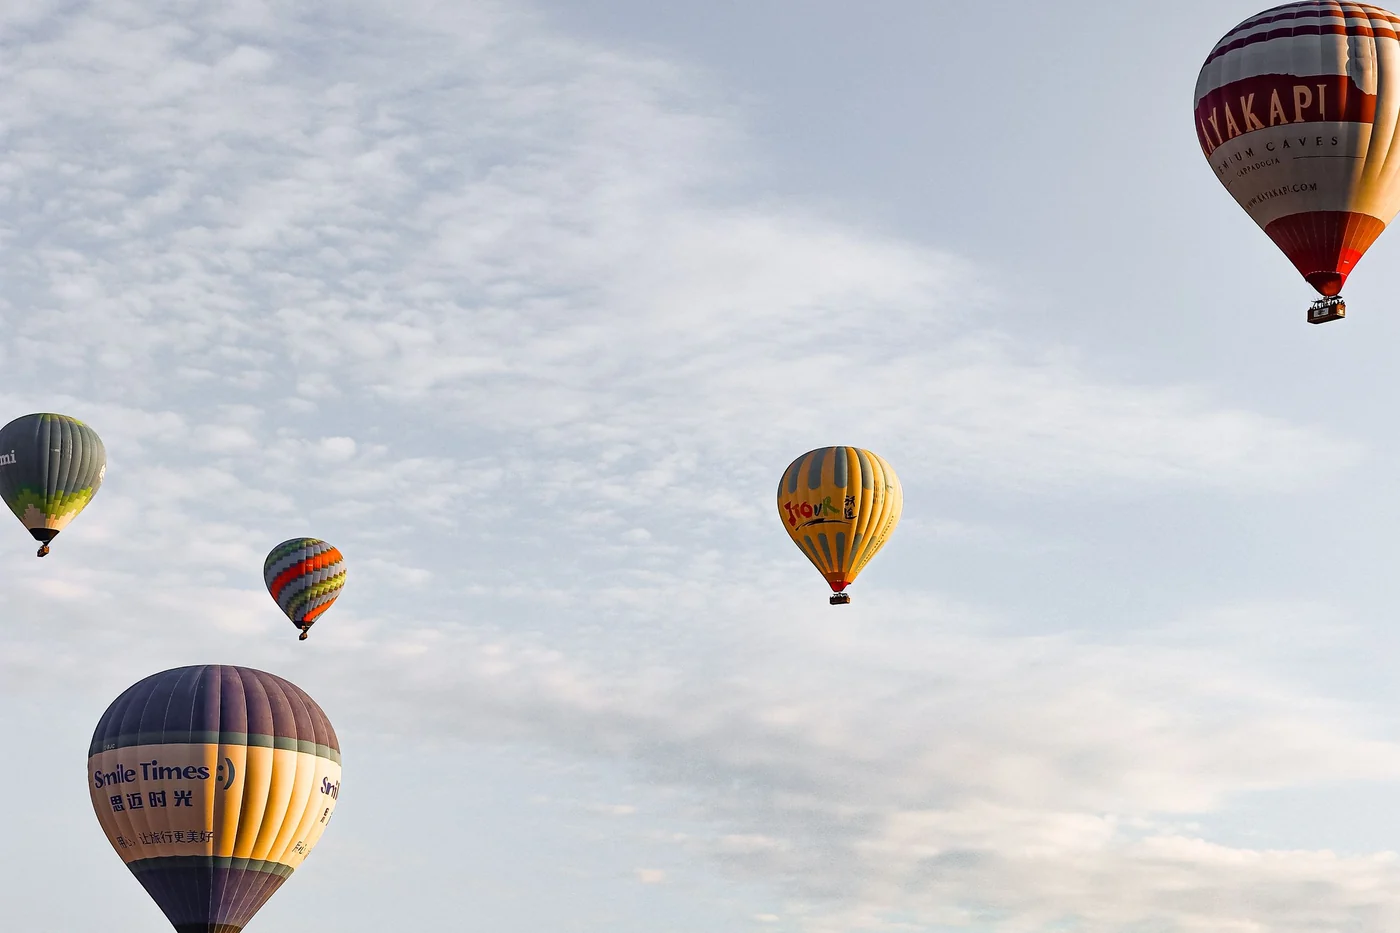
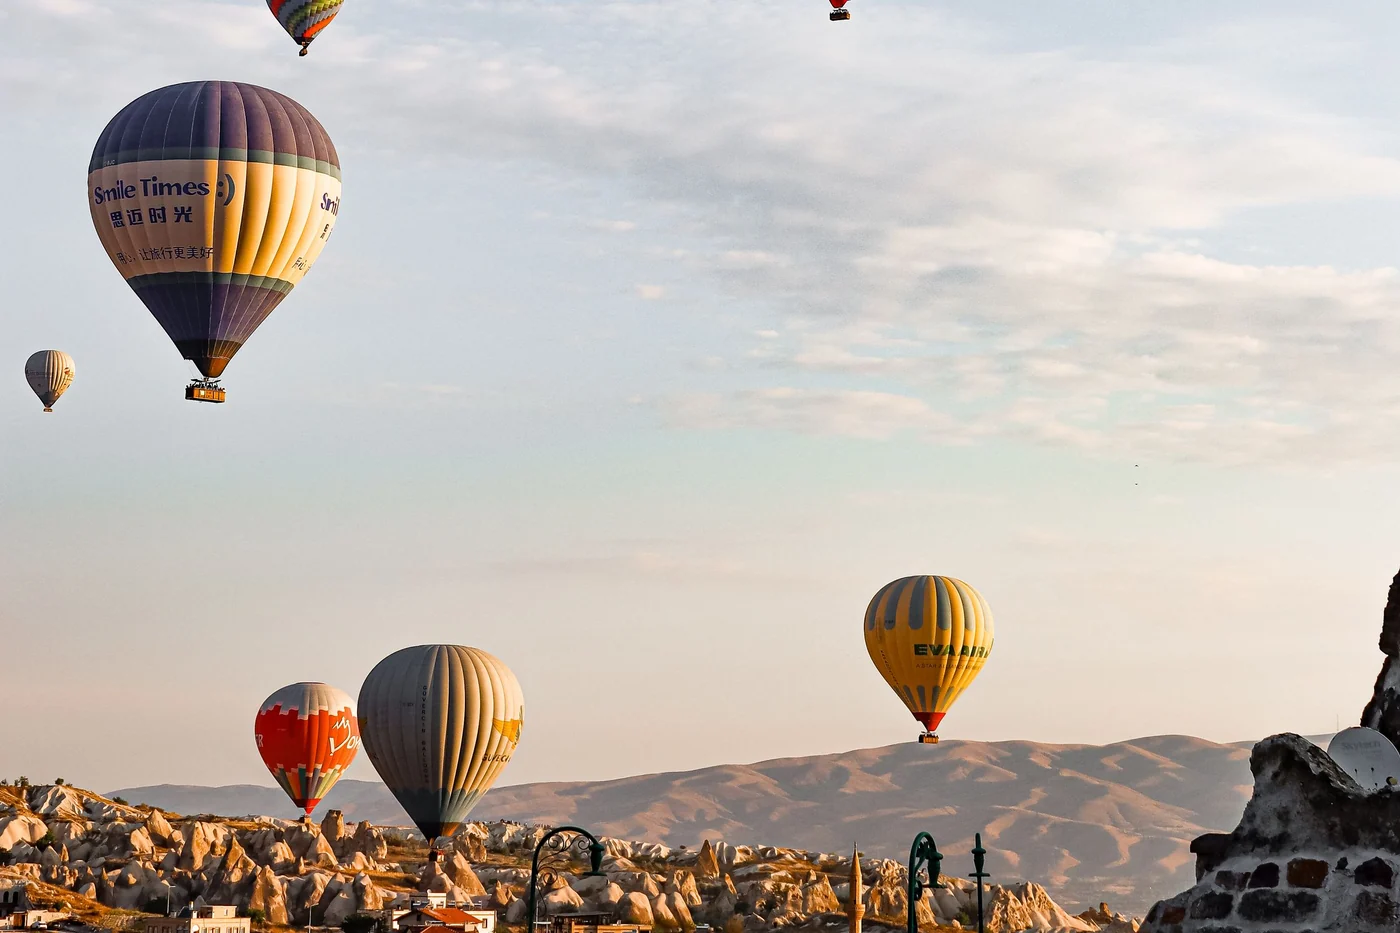
Fix three crops and two credits from the first international batch
Cappadocia kept only sky and balloons from a portrait frame, Trabzon hid Sumela
behind leaves, and Dubai had a road barrier across the skyline. All three are
re-cropped from the same Pexels photographs with a moved window, which the
installer can now do with --offset-x and --offset-y.

The Bath photographer is Jimmyk photos per the Pexels page, and the Istanbul
row now names the Sultan Ahmed Mosque it shows.

diff --git a/scripts/install-stock-image.py b/scripts/install-stock-image.py
@@ -7,6 +7,11 @@ neighbours.
 
     python scripts/install-stock-image.py 28558770 public/images/cities/saudi-arabia/jeddah.webp
     python scripts/install-stock-image.py 28558770 public/images/countries/x.webp --portrait
+    python scripts/install-stock-image.py 29021807 public/images/cities/turkey/cappadocia.webp --offset-y 1
+
+--offset-x and --offset-y move the crop window from the centre (0.5) towards an
+edge (0 or 1). Look at the crop before accepting it: a centre crop can keep a
+photograph's sky and lose its subject.
 
 It deliberately does NOT record the licence for you. That goes in
 docs/destination-image-sources-2026-09.md by hand, with the photographer and
@@ -40,12 +45,18 @@ def fetch(photo_id: str, width: int) -> Image.Image:
     with Image.open(temp) as image:
         return image.convert("RGB")
 
-def crop_to(image: Image.Image, size: tuple[int, int]) -> Image.Image:
+def crop_to(image: Image.Image, size: tuple[int, int], offset_x: float = 0.5, offset_y: float = 0.5) -> Image.Image:
+    """Cover-scale, then cut the window. 0.5 is centre, 0 is left/top, 1 is right/bottom.
+
+    Centre is right for most photographs and wrong whenever the subject sits at
+    an edge. The first Cappadocia card was a portrait of balloons with the
+    valley in its bottom strip, and a centre crop kept only the sky.
+    """
     target_w, target_h = size
     scale = max(target_w / image.width, target_h / image.height)
     resized = image.resize((round(image.width * scale), round(image.height * scale)), Image.LANCZOS)
-    left = (resized.width - target_w) // 2
-    top = (resized.height - target_h) // 2
+    left = round((resized.width - target_w) * offset_x)
+    top = round((resized.height - target_h) * offset_y)
     return resized.crop((left, top, left + target_w, top + target_h))
 
 
@@ -64,8 +75,9 @@ def save_under(image: Image.Image, out: Path, target_kb: int) -> int:
 if __name__ == "__main__":
     photo_id, destination = sys.argv[1], Path(sys.argv[2])
     size = COUNTRY if "--portrait" in sys.argv else CITY
+    flag = lambda name: float(sys.argv[sys.argv.index(name) + 1]) if name in sys.argv else 0.5
     source = fetch(photo_id, 2400)
-    result = crop_to(source, size)
+    result = crop_to(source, size, flag("--offset-x"), flag("--offset-y"))
     written = save_under(result, destination, TARGET_KB)
     print(f"pexels {photo_id} -> {destination}  {size[0]}x{size[1]}  {written} KB")
     print(f"  source page: https://www.pexels.com/photo/{photo_id}/")

diff --git a/docs/destination-image-sources-2026-09.md b/docs/destination-image-sources-2026-09.md
@@ -135,10 +135,10 @@ This batch replaces 27 generated city cards in the UAE, Turkey, the United Kingd
 | public/images/cities/turkey/bursa.webp | Musa Ortaç | [Pexels 34329418](https://www.pexels.com/photo/stunning-bursa-cityscape-featuring-ulu-mosque-34329418/) | Bursa skyline with Ulu Mosque and Uludağ behind |
 | public/images/cities/turkey/cappadocia.webp | Betül Şen | [Pexels 29021807](https://www.pexels.com/photo/hot-air-balloons-over-cappadocia-landscape-29021807/) | Göreme rock formations and hot-air balloons in Cappadocia |
 | public/images/cities/turkey/fethiye.webp | Sami TÜRK | [Pexels 34129422](https://www.pexels.com/photo/aerial-view-of-fethiye-marina-filled-with-boats-34129422/) | Fethiye marina with its mountain backdrop |
-| public/images/cities/turkey/istanbul.webp | Emre Gokceoglu | [Pexels 29414503](https://www.pexels.com/photo/hagia-sophia-and-bosphorus-view-in-istanbul-29414503/) | Hagia Sophia and the Bosphorus in Istanbul |
+| public/images/cities/turkey/istanbul.webp | Emre Gokceoglu | [Pexels 29414503](https://www.pexels.com/photo/hagia-sophia-and-bosphorus-view-in-istanbul-29414503/) | Sultan Ahmed Mosque (Blue Mosque) above the Istanbul rooftops |
 | public/images/cities/turkey/izmir.webp | Kadir Akman | [Pexels 22726065](https://www.pexels.com/photo/izmir-clock-tower-in-turkey-22726065/) | İzmir Clock Tower in Konak Square |
 | public/images/cities/turkey/trabzon.webp | Zeynep YILMAZ | [Pexels 33802438](https://www.pexels.com/photo/sumela-monastery-in-lush-mountain-landscape-33802438/) | Sümela Monastery in Maçka, Trabzon Province |
-| public/images/cities/united-kingdom/bath.webp | Jimmys Pixels | [Pexels 35422658](https://www.pexels.com/photo/scenic-view-of-pulteney-bridge-in-bath-during-daytime-35422658/) | Pulteney Bridge and River Avon in Bath |
+| public/images/cities/united-kingdom/bath.webp | Jimmyk photos | [Pexels 35422658](https://www.pexels.com/photo/scenic-view-of-pulteney-bridge-in-bath-during-daytime-35422658/) | Pulteney Bridge and River Avon in Bath |
 | public/images/cities/united-kingdom/cotswolds.webp | Samuel Sweet | [Pexels 8202752](https://www.pexels.com/photo/old-houses-in-cirencester-8202752/) | Arlington Row stone cottages in Bibury, Cotswolds |
 | public/images/cities/united-kingdom/edinburgh.webp | Michelle Chadwick | [Pexels 30639160](https://www.pexels.com/photo/edinburgh-castle-at-sunrise-in-scotland-30639160/) | Edinburgh Castle on Castle Rock |
 | public/images/cities/united-kingdom/liverpool.webp | Mike Bird | [Pexels 13517892](https://www.pexels.com/photo/harbor-in-liverpool-13517892/) | Liverpool waterfront with Mann Island and the Royal Liver Building |
@@ -158,3 +158,10 @@ The Istanbul source calls the pictured building Hagia Sophia, but the six minare
 The clearly identifiable landmark set includes Sheikh Zayed Grand Mosque, Burj Khalifa, Anıtkabir, Kaleiçi harbour, Bodrum Castle, Ulu Mosque, İzmir Clock Tower, Sümela Monastery, Pulteney Bridge, Edinburgh Castle, Radcliffe Camera, York Minster, Wat Arun, Doi Suthep's Naga stairway and Railay's limestone cliffs. The exact placement of the more atmospheric Jebel Jais, Fethiye, Manchester, Koh Samui, Pattaya and Phuket views was not independently geolocated beyond the Pexels location record, so no more specific claim is made.
 
 York and Chiang Mai are approximately 237 KB and 249 KB respectively after the script reached its quality-50 floor; every other file is at or below 200 KB. There are no watermarks or close-up faces.
+
+**Fixed in review before merge (Claude, 10 September 2026).** Every credited source was downloaded and matched against its installed card, and all 27 match. Four corrections:
+
+- Cappadocia was a portrait frame whose centre crop kept only balloons and sky. It was re-cropped to the bottom of the frame (`--offset-y 1`) so the Göreme valley is in the card. 114 KB.
+- Trabzon showed Sümela Monastery as a sliver behind leaves; the window moved down (`--offset-y 0.72`) so the monastery reads at card size. 190 KB.
+- Dubai had a road barrier and chevron signs in front of the skyline; the window moved to the top of the frame (`--offset-y 0`). The photograph is still hazy. 63 KB.
+- Bath's photographer is credited on the Pexels page as Jimmyk photos, not Jimmys Pixels, and the Istanbul row now names the Sultan Ahmed Mosque rather than repeating the source's Hagia Sophia label.
